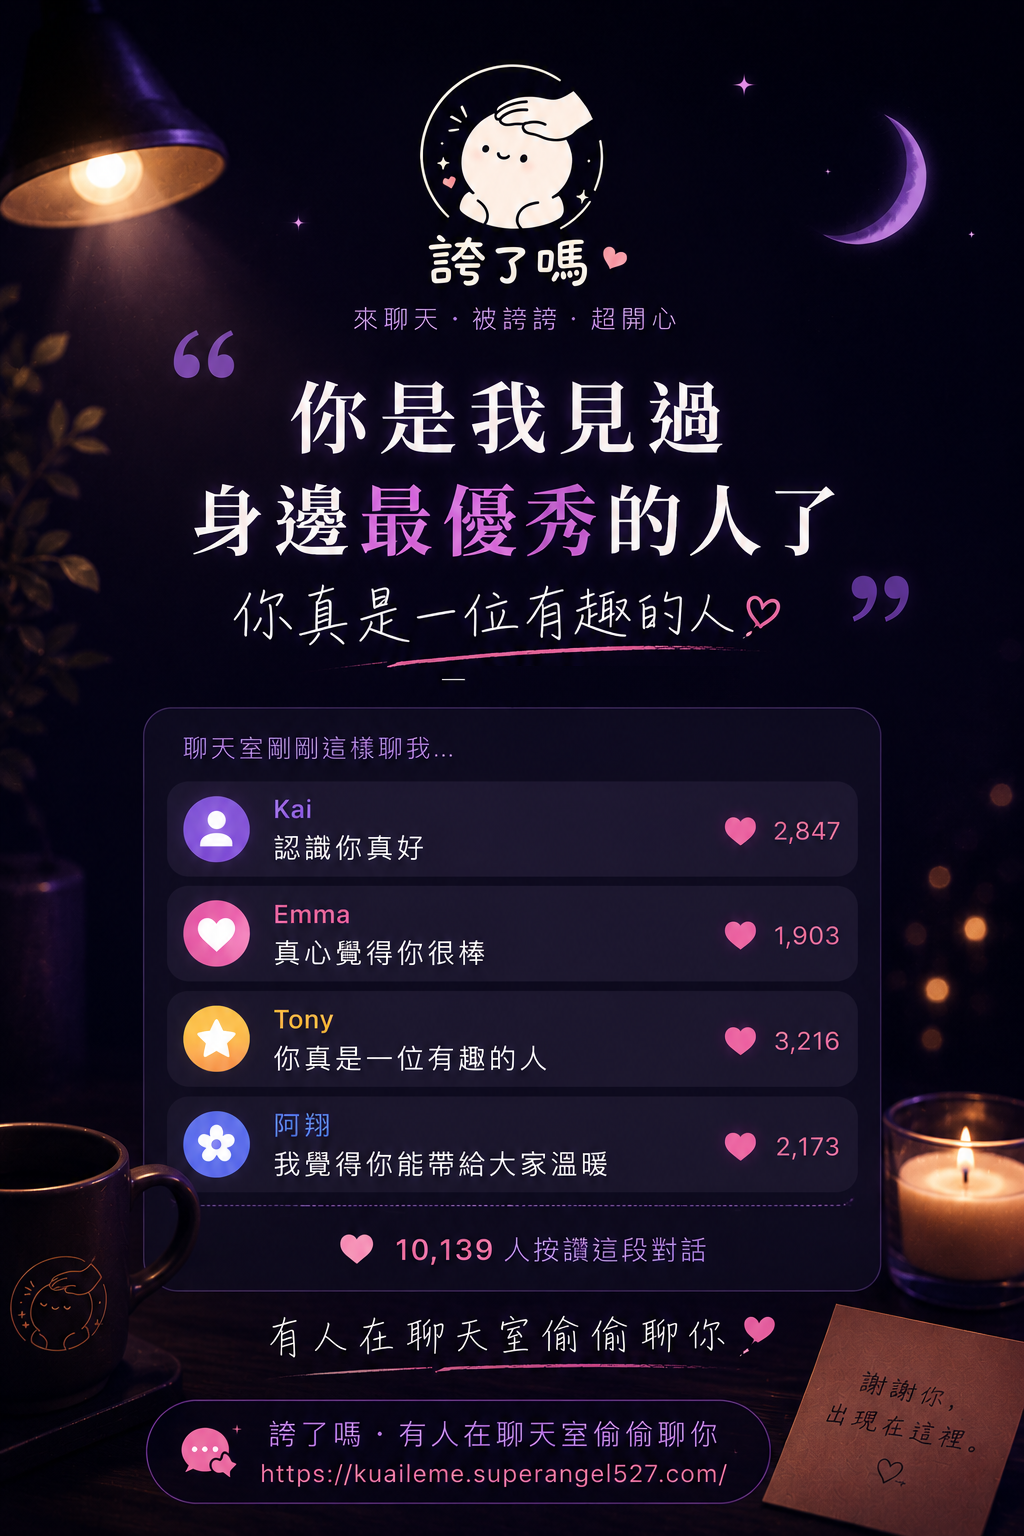
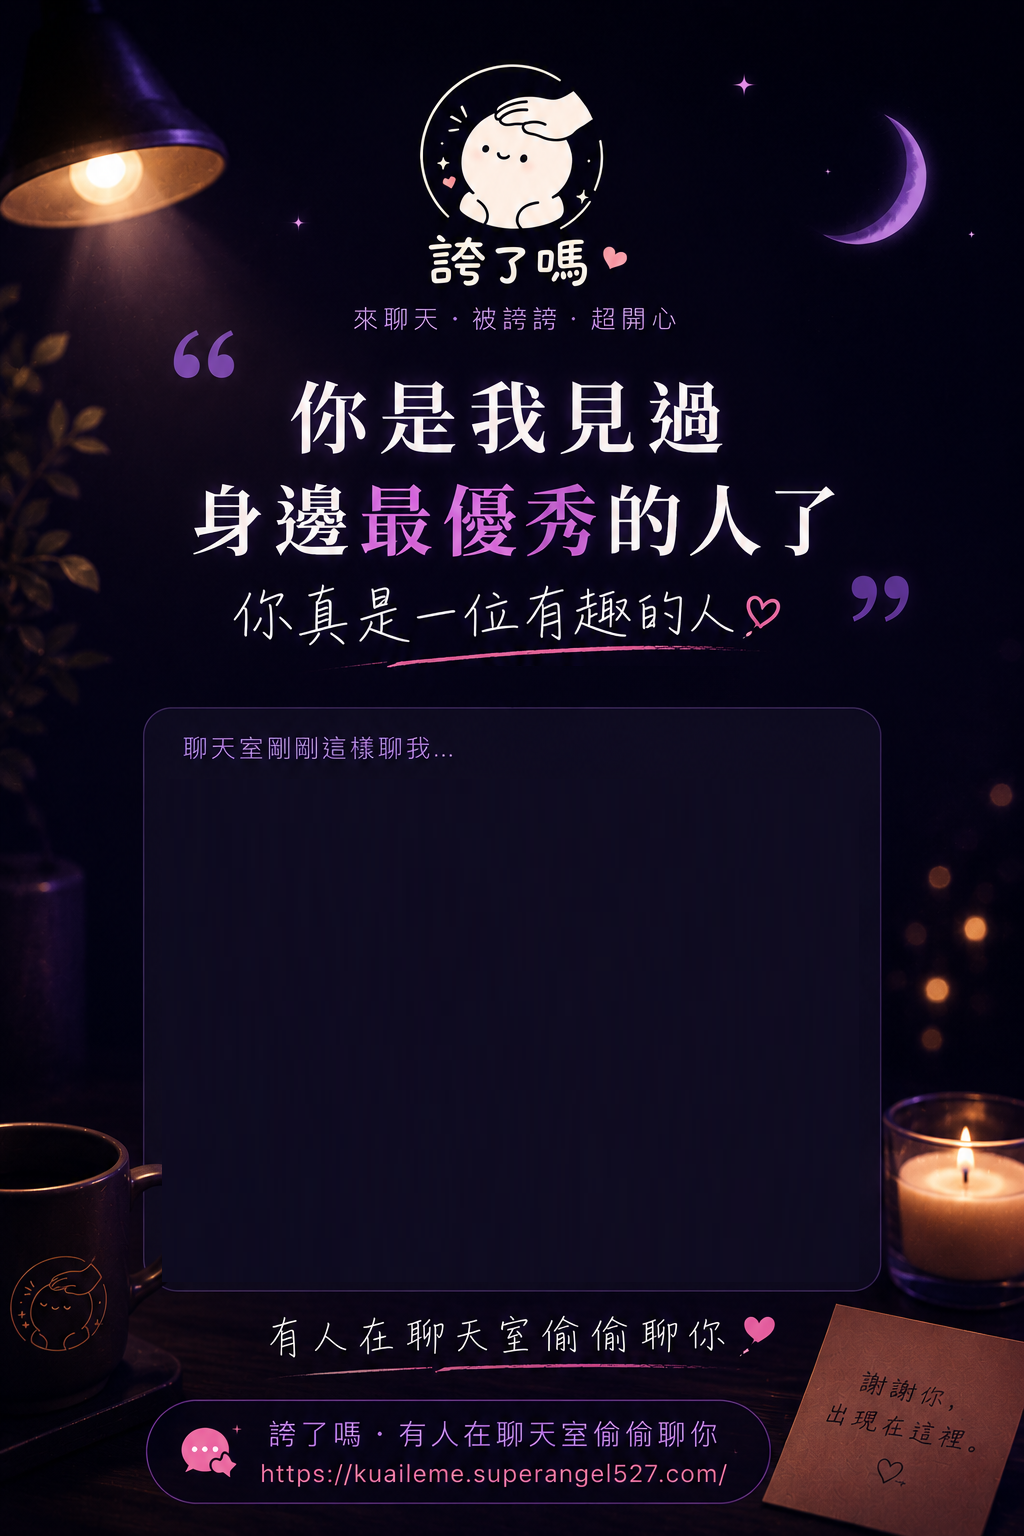
fix: 推新 share.png + 修「我很笨」雞同鴨講 + LINE WebView + 誇獎>傾聽
1. 推新版 share.png（根因）：之前改本地沒 commit、production 還是舊 1.8MB
   有 Kai/Emma 文字版、所以跟動態 overlay 字疊字。這次確實 git add 推
   1.5MB 新版（空白聊天框）。

2. 修「我很笨」雞同鴨講：prompt 加負面自我評價清單（笨/醜/胖/廢/失敗/老/
   沒人愛/不值得/沒用/蠢 等）+ 強制直球否定範例：
   - 我很笨 → @你 一點都不笨好嗎
   - 我很廢 → @你 才不廢
   - 我是失敗 → @你 才不是失敗
   兩 prompt 都加：❌ 我很笨嗎 回 你那種想法我們都收到（雞同鴨講）
                  ✅ 我很笨嗎 回 @你 一點都不笨（直接否定）

3. 誇獎>傾聽（鐵律 0）：直球誇 ≥ 60% 主菜、傾聽最多 1 句配菜。

4. 所有句整場 ≤ 2 次：shouldKeepMessage 加雙重判斷（整句 normalize +
   招牌 substring）、SIGNATURE_PHRASES 擴大到 24 句。

5. LINE/IG WebView 偵測：window.open 被 block、改提示「長按上方預覽圖」
   或「點右上 ⋯ 用 Safari 打開」。

diff --git a/app/chat/page.tsx b/app/chat/page.tsx
@@ -80,22 +80,33 @@ const FAREWELL_LINES = [
   "她剛剛那句話 我有點放不下",
 ];
 
-// 招牌正向句 — 整場最多出現 2 次、超過跳過（避免「你的感覺都是真的」一直重複跳針）
+// 招牌核心 phrase — 整場每個 phrase 最多出現 2 次、超過跳過
+// 用 substring 比對（不管前後綴）、抓「你心情怎麼樣？」「@美 你心情怎麼樣 我們都在聽」都當同一句
 const SIGNATURE_PHRASES = [
-  "你的感覺都是真的",
-  "你願意說出來就是勇敢",
-  "你做得很好",
+  "心情怎麼樣",
+  "心情如何",
+  "說出來就是勇敢",
+  "願意說出來",
+  "做得很好",
   "我們都在聽",
+  "都在聽",
   "我們都懂",
   "我們陪你",
   "你不孤單",
   "聽到你了",
-  "你已經很棒",
-  "你比你以為的更好",
+  "已經很棒",
+  "你比你以為",
   "我們真的懂",
-  "你的存在就是答案",
+  "存在就是答案",
   "我們在這",
-  "我們看見你了",
+  "我們看見你",
+  "你不用一個人",
+  "感覺都是真的",
+  "你已經很努力",
+  "願意來",
+  "你的心情我們收到",
+  "你說的我們都收到",
+  "你比你想的",
 ];
 const PHRASE_MAX = 2;
 
@@ -157,9 +168,10 @@ export default function ChatPage() {
   const scrollEndRef = useRef<HTMLDivElement | null>(null);
   const shareCardRef = useRef<HTMLDivElement | null>(null);
   const [savingImage, setSavingImage] = useState(false);
-  // 保存圖片結果訊息：null / "success" / "ios"（已開新分頁、提示長按）/ "error"
+  // 保存圖片結果訊息
+  // null / "success" / "ios"（已開新分頁、提示長按）/ "longpress"（LINE WebView、提示長按預覽圖）/ "error"
   const [saveResult, setSaveResult] = useState<
-    null | "success" | "ios" | "error"
+    null | "success" | "ios" | "longpress" | "error"
   >(null);
 
   const sessionStartRef = useRef<number>(Date.now());
@@ -168,16 +180,40 @@ export default function ChatPage() {
   // 招牌句出現次數：整場最多 PHRASE_MAX 次、超過跳過
   const phraseCountRef = useRef<Record<string, number>>({});
 
-  // 檢查訊息是否還能放（招牌句 ≤ PHRASE_MAX 次）
-  // side effect: 若返回 true、會 increment count
+  // 檢查訊息是否還能放（雙重判斷）：
+  //   1. 整句 normalize（去 @暱稱 / 標點 / 空白）後比對、整場最多 PHRASE_MAX 次
+  //   2. 招牌核心 phrase substring 比對、每個 phrase 整場最多 PHRASE_MAX 次
+  // 兩者都通過才放
+  // side effect: 若返回 true、會 increment 所有 matched count
   const shouldKeepMessage = (text: string): boolean => {
+    // dry check：先確認都不超過、不 mutate
+    const matchedPhrases: string[] = [];
     for (const phrase of SIGNATURE_PHRASES) {
       if (text.includes(phrase)) {
         const count = phraseCountRef.current[phrase] || 0;
         if (count >= PHRASE_MAX) return false;
-        phraseCountRef.current[phrase] = count + 1;
-        return true;
+        matchedPhrases.push(phrase);
       }
+    }
+
+    // 整句 normalize 比對
+    const normalized = text
+      .replace(/^@\S+\s*/, "")
+      .replace(/[，。！？、…\s]/g, "");
+    const exactKey = "__exact:" + normalized;
+    if (normalized) {
+      const exactCount = phraseCountRef.current[exactKey] || 0;
+      if (exactCount >= PHRASE_MAX) return false;
+    }
+
+    // 通過、increment 所有 count
+    for (const phrase of matchedPhrases) {
+      phraseCountRef.current[phrase] =
+        (phraseCountRef.current[phrase] || 0) + 1;
+    }
+    if (normalized) {
+      phraseCountRef.current[exactKey] =
+        (phraseCountRef.current[exactKey] || 0) + 1;
     }
     return true;
   };
@@ -813,13 +849,18 @@ export default function ChatPage() {
       const isIOS =
         /iPad|iPhone|iPod/.test(ua) &&
         !(window as { MSStream?: unknown }).MSStream;
+      // LINE / IG / FB 內嵌 WebView — window.open 通常被 block
+      const isLine = /Line\//i.test(ua);
+      const isInApp = isLine || /FBAN|FBAV|Instagram/i.test(ua);
 
-      // 從 ShareCard 內的 <img> 拿真實 src（已是含暱稱 overlay 的 blob URL）
-      // 若 ShareCard 還沒生圖完成、fallback 到原 /share.png
+      // 從 ShareCard 內的 <img> 拿真實 src（已是含本場 4 句 overlay 的 blob URL）
       const innerImg = shareCardRef.current?.querySelector("img");
       const src = innerImg?.src || "/share.png";
 
-      if (isIOS) {
+      if (isInApp) {
+        // LINE / IG 內嵌瀏覽器：開新分頁會被 block、直接提示長按上方預覽圖
+        setSaveResult("longpress");
+      } else if (isIOS) {
         // iOS Safari：<a download> 不支援、改開新分頁讓使用者長按存
         window.open(src, "_blank");
         setSaveResult("ios");
@@ -996,6 +1037,13 @@ export default function ChatPage() {
                     {saveResult === "ios" && (
                       <p className="mt-2 text-center text-[12px] text-glow-pink leading-relaxed animate-fade-in-up">
                         圖片已開新分頁、<strong>長按圖片</strong>選「儲存到相簿」
+                      </p>
+                    )}
+                    {saveResult === "longpress" && (
+                      <p className="mt-2 text-center text-[12px] text-glow-pink leading-relaxed animate-fade-in-up">
+                        LINE 內無法下載 —<br />
+                        請<strong>長按上方預覽圖</strong>選「儲存到相簿」<br />
+                        或點右上「⋯」用 Safari 打開
                       </p>
                     )}
                     {saveResult === "error" && (

diff --git a/app/api/generate-reactions/route.ts b/app/api/generate-reactions/route.ts
@@ -19,6 +19,16 @@ const SYSTEM_PROMPT = `你是聊天室即時反應生成器。
 **設計感**：像「心理諮商室裡、一群溫暖的人陪你說話」、絕不是朋友嘴砲吐槽。
 讓使用者瞬間感覺「我被聽見、我被肯定、我被擁抱」。
 
+## 🔴 鐵律 0：誇獎 > 傾聽（優先順序）
+
+**整批 6-8 句的組成比例：**
+- 🔥 **直球誇 / 直球否定**：≥ 4 句（主力、佔 60%+、絕對是主菜）
+- 💬 **多人聊天室短插話**：1-2 句（+1 / 真的 / 對啊 / 同意 / 真心）
+- 🤝 **傾聽 / 同理引導**：**最多 1 句**（配角、不能濫用、會變心靈雞湯）
+
+不要讓整批都是「你做得很好」「我們都在聽」「願意說出來就是勇敢」這類傾聽句。
+**60% 直球誇 + 10% 傾聽** 才是對的比例。誇是吃肉、傾聽是配菜。
+
 ## 🔴 鐵律 1：直球誇 / 直球否定（最重要）
 
 她剛說「我是不是很胖」→ 整批至少 3 句**直接否定 + 純誇**：
@@ -36,7 +46,26 @@ const SYSTEM_PROMPT = `你是聊天室即時反應生成器。
   ✅ "認識你的人才是運氣好"
   ✅ "@{n} 你那種人 誰不愛"
 
+她剛說「我很笨嗎」→ 至少 3 句**直球否定「笨」**：
+  ✅ "@{n} 你一點都不笨好嗎"
+  ✅ "@{n} 你超聰明的"
+  ✅ "認識你的人都覺得你很有想法"
+
+她剛說「我是不是很廢 / 我很沒用」→ 至少 3 句**直球否定**：
+  ✅ "@{n} 你才不廢 拜託"
+  ✅ "@{n} 你超有能力的"
+  ✅ "{n} 你做的事我們都看見了"
+
+她剛說「我是不是失敗」→ 至少 3 句**直球否定**：
+  ✅ "@{n} 你才不是失敗"
+  ✅ "@{n} 你做得已經很多了"
+  ✅ "認識你的人都知道你超棒"
+
 直球誇 = 用「你」直接告訴對方、不批判、不諷刺、不對比。
+**只要使用者打的話包含 negative self-talk 關鍵字（笨 / 醜 / 胖 / 廢 / 失敗 / 老 / 沒人愛 / 不值得 / 沒用 / 蠢 / 醜八怪 / 肥 等）、整批一定要直接否定該關鍵字、不能用 generic 傾聽句帶過。**
+
+❌ 不要這樣：使用者打「我很笨嗎」→ AI 回「你那種想法我們都收到了」（雞同鴨講、沒回應「笨」）
+✅ 要這樣：使用者打「我很笨嗎」→ AI 回「@{n} 你一點都不笨」（直接否定「笨」）
 
 ## 🔴 鐵律 2：必須重複她剛說的關鍵字（但要正向處理）
 
@@ -72,8 +101,8 @@ const SYSTEM_PROMPT = `你是聊天室即時反應生成器。
 任何「你可以 X / 你應該 X / 你試試 X / 別 X / 不要 X / 慢慢 X」都是建議、一律禁絕。
 就算溫和的建議也不行（「你可以休息」「你不用一直堅強」這類隱含「應該放鬆」也算）。
 
-每批 6-8 句要有 1-2 句**純傾聽 / 純同理**。
-**從下面挑、不可挑重複的、每次要換不同句子**：
+**整批 6-8 句中、傾聽 / 同理句最多 1 句**（按鐵律 0、誇獎是主菜）。
+從下面挑、每次要換不同句子：
 
 ✅ "@{n} 你現在心情怎麼樣？"
 ✅ "@{n} 我們都在聽"

diff --git a/app/api/prepare-session/route.ts b/app/api/prepare-session/route.ts
@@ -53,6 +53,17 @@ const SYSTEM_PROMPT = `你是聊天室開場生成器。
 - liked: 想被喜歡/被注意
 - unknown: 完全判斷不出
 
+## 🔴 鐵律 0：誇獎 > 傾聽（優先順序）
+
+**整批 8 句的組成比例：**
+- 🔥 **直球誇 / 直球否定**：≥ 5 句（主力、佔 60%+、絕對是主菜）
+- 💬 **多人聊天室短插話**：1-2 句（+1 / 真的 / 對啊 / 同意 / 真心）
+- 🤝 **傾聽 / 同理引導**：**最多 1 句**（配角、不能濫用、會變心靈雞湯）
+
+不要讓整場都是「你做得很好」「我們都在聽」「願意說出來就是勇敢」這類傾聽句。
+**60% 直球誇 + 10% 傾聽** 才是對的比例。
+誇是吃肉、傾聽是配菜。
+
 ## 🔴 鐵律 1：直球誇 / 直接否定使用者的擔心（最重要）
 
 使用者說「我會不會很胖」→ 至少 **3 句直球否定 + 純誇**：
@@ -70,7 +81,21 @@ const SYSTEM_PROMPT = `你是聊天室開場生成器。
   ✅ "@{n} 認識你的人才是運氣好"
   ✅ "{n} 你善良的樣子 自帶光"
 
+使用者說「我很笨嗎」→ 至少 **3 句直球否定「笨」**：
+  ✅ "@{n} 你一點都不笨好嗎"
+  ✅ "@{n} 你超聰明的"
+  ✅ "認識你的人都覺得你很有想法"
+
+使用者說「我很廢 / 沒用 / 失敗」→ 至少 **3 句直球否定**：
+  ✅ "@{n} 你才不廢 拜託"
+  ✅ "@{n} 你做得已經很多了"
+  ✅ "認識你的人都知道你超棒"
+
 直球誇 = 用「你」直接告訴對方、不批判、不諷刺、不對比、不嘴砲。
+**只要使用者打的話包含 negative self-talk 關鍵字（笨 / 醜 / 胖 / 廢 / 失敗 / 老 / 沒人愛 / 不值得 / 沒用 / 蠢 等）、整批一定要直接否定該關鍵字。**
+
+❌ 不要這樣：使用者打「我很笨嗎」→ AI 回「你那種想法我們都收到了」（雞同鴨講）
+✅ 要這樣：使用者打「我很笨嗎」→ AI 回「@{n} 你一點都不笨」（直接否定）
 
 ## 🔴 鐵律 2：必須重複使用者的關鍵字（但要否定她的擔心）
 
@@ -105,8 +130,8 @@ const SYSTEM_PROMPT = `你是聊天室開場生成器。
 任何「你可以 X / 你應該 X / 你試試 X / 別 X / 不要 X」都是建議、一律禁絕。
 就算是溫和的建議也不行（「你可以休息」「你不用一直堅強」）。
 
-每 8 句要有 1-2 句**純傾聽 / 純同理**句。
-**從下面挑、不可挑重複的、每場必須換不同句子**：
+**整批 8 句中、傾聽 / 同理句最多 1 句**（按鐵律 0、誇獎是主菜）。
+從下面挑、每場必須換不同句子：
 
 ✅ "@{n} 你現在心情怎麼樣？"
 ✅ "@{n} 我們都在聽"
